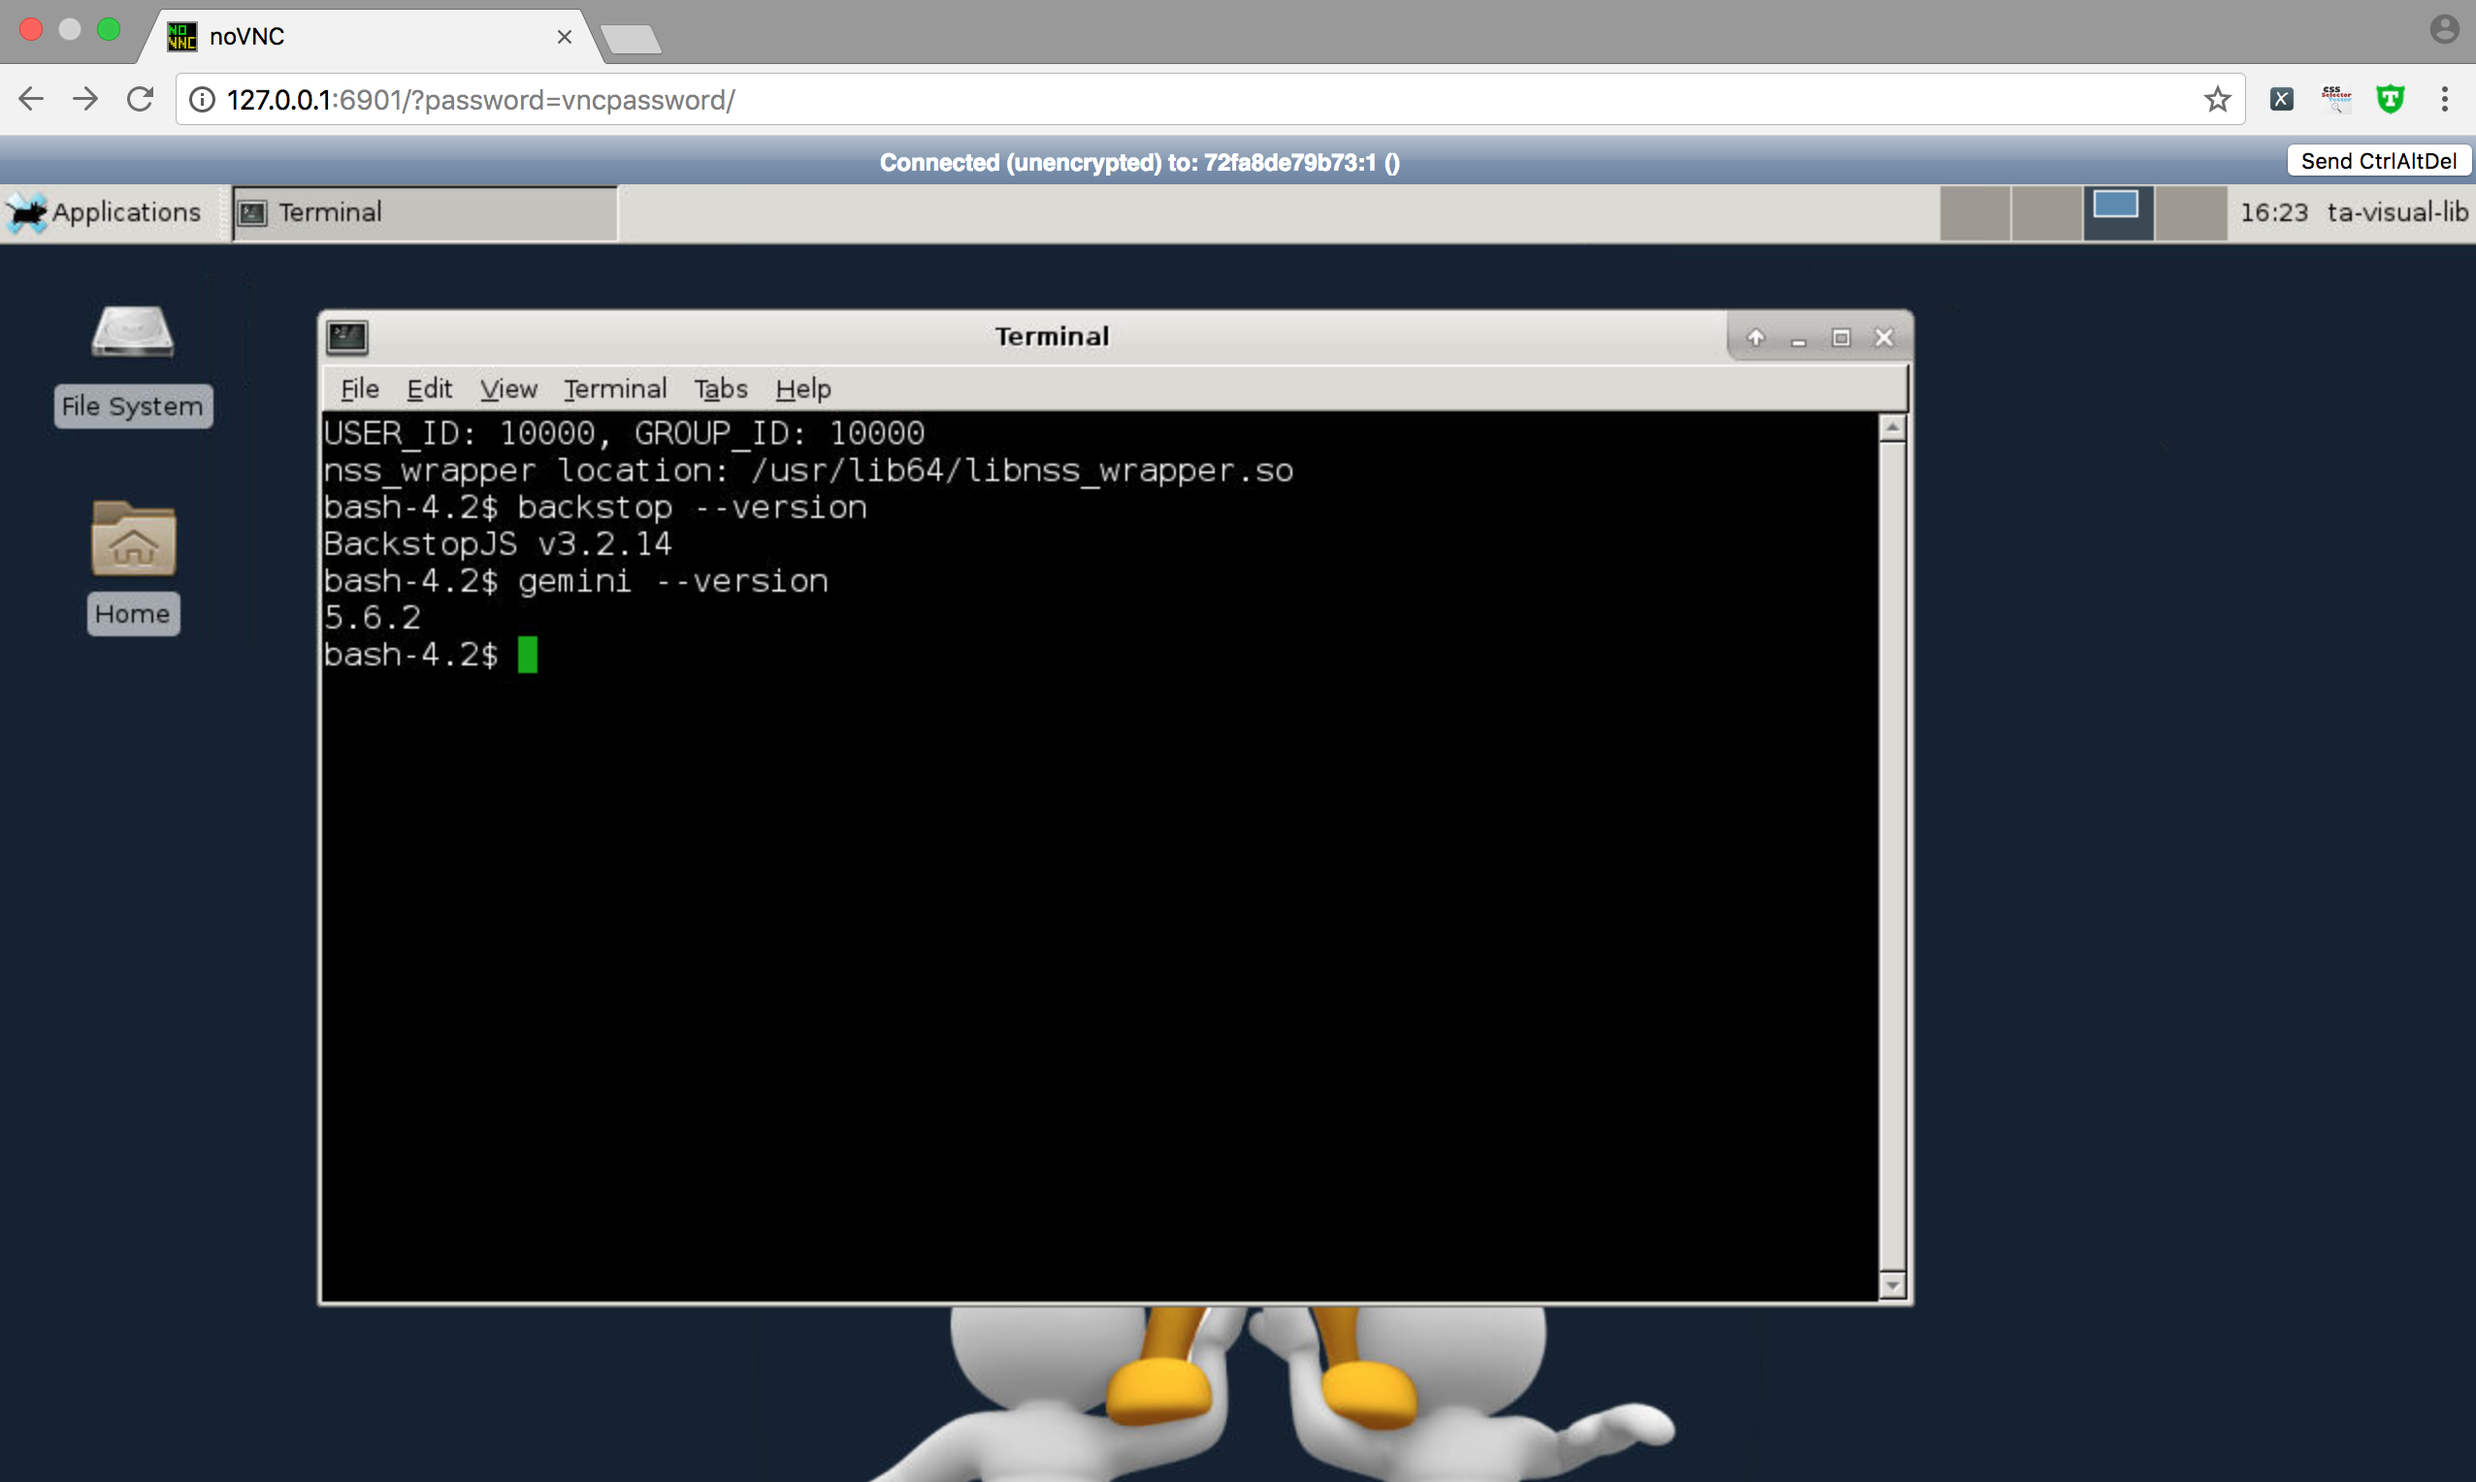
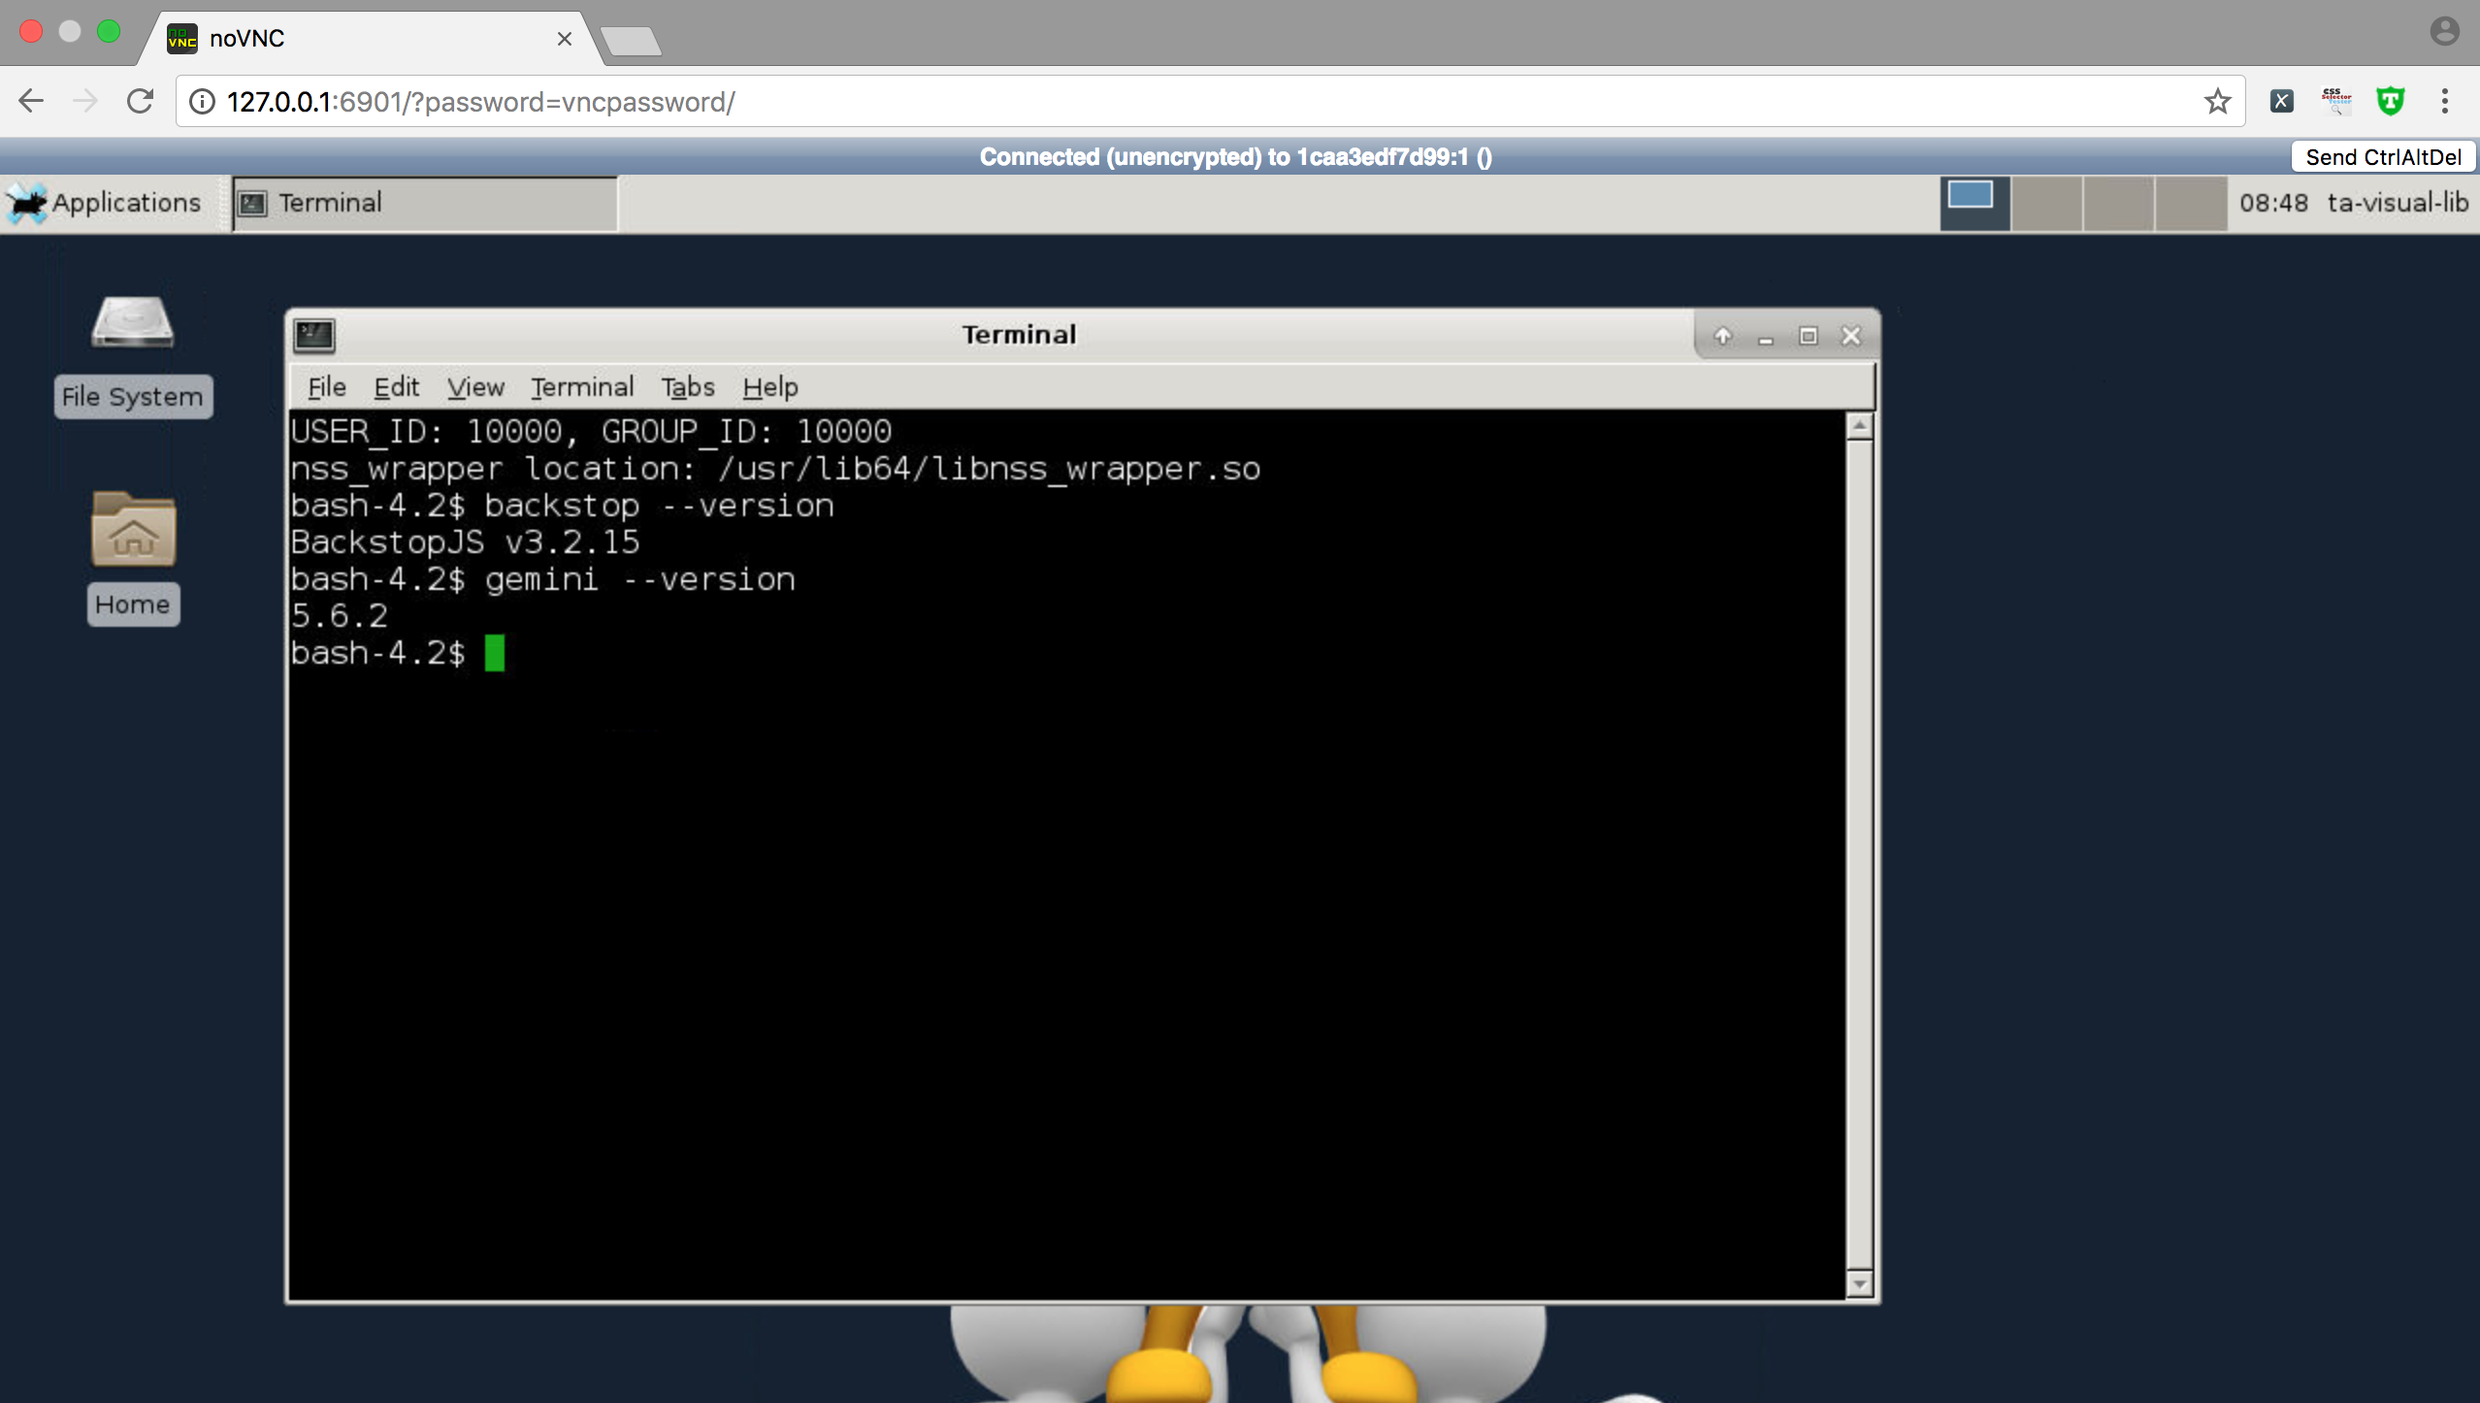
[Feat] Update Backstop to 3.2.15 and noVNC

Changed region(s): [[0.0, 0.0, 1.0, 1.0]]

diff --git a/Sample/Backstop/BackstopJS_Chrome_ChromyEngine_SimulateCookie&UserActions/backstop_data/html_report/config.js b/Sample/Backstop/BackstopJS_Chrome_ChromyEngine_SimulateCookie&UserActions/backstop_data/html_report/config.js
@@ -4,7 +4,7 @@ report({
     {
       "pair": {
         "reference": "../bitmaps_reference/demo_cookie_0_document_0_PC.png",
-        "test": "../bitmaps_test/20180418-145031/demo_cookie_0_document_0_PC.png",
+        "test": "../bitmaps_test/20180421-044745/demo_cookie_0_document_0_PC.png",
         "selector": "document",
         "fileName": "demo_cookie_0_document_0_PC.png",
         "label": "cookie",
@@ -18,8 +18,7 @@ report({
             "width": 0,
             "height": 0
           },
-          "misMatchPercentage": "0.04",
-          "analysisTime": 1145
+          "misMatchPercentage": "0.00"
         }
       },
       "status": "pass"

diff --git a/README.md b/README.md
@@ -19,7 +19,7 @@ Or, pull the image from docker hub - [kenith/ta-visual-lib](https://hub.docker.c
 For now, we support the following Visual Regression Testing Library.
 No matter which tool you use, if no necessary, we suggest to use Chrome for Visual Regression.
 
-1. [BackstopJS - 3.2.14](https://github.com/garris/BackstopJS)
+1. [BackstopJS - 3.2.15](https://github.com/garris/BackstopJS)
 
 2. [Gemini - 5.6.2](https://github.com/gemini-testing/gemini)
 
@@ -188,11 +188,10 @@ You could refer to the samples to get started for visual regression testing.
 **1. BackstopJS_Chrome_ChromyEngine_SimulatePC&iPhone**
 - Suggest to set `"debugWindow": false` if running test
 
-**2. BackstopJS_Chrome_ChromyEngine_SimulateCookie&UserActions_Bug**
+**2. BackstopJS_Chrome_ChromyEngine_SimulateCookie&UserActions**
 - Suggest to set `"debugWindow": false` if running test
 - For passing cookie, if you site is using http, please edit backstop_data/engine_scripts/chromy/loadCookies.js: `cookie.url = 'http://' + cookie.domain;`
 - You could edit the backstop_data/engine_scripts/chromy/onReady.js to edit the user actions. All the defined user actions could be found in interactions.js
-- Git Hub Bug: [https://github.com/garris/BackstopJS/issues/744](https://github.com/garris/BackstopJS/issues/744)
 
 **3. BackstopJS_Chrome_PuppeteerEngine_SimulatePC&iPhone**
 - Suggest to set `"debugWindow": false` if running test
@@ -241,7 +240,7 @@ You could refer to the samples to get started for visual regression testing.
 
 6. NPM v5.6.0
 
-7. BackstopJS v3.2.11
+7. BackstopJS v3.2.15
 
 8. CasperJS v1.1.4
 
@@ -249,7 +248,7 @@ You could refer to the samples to get started for visual regression testing.
 
 10. Gemini v5.6.2
 
-11. Gemini GUI v6.0.0
+11. Gemini GUI v6.0.1
 
 12. Gemini HTML Reporter v2.14.0
 
